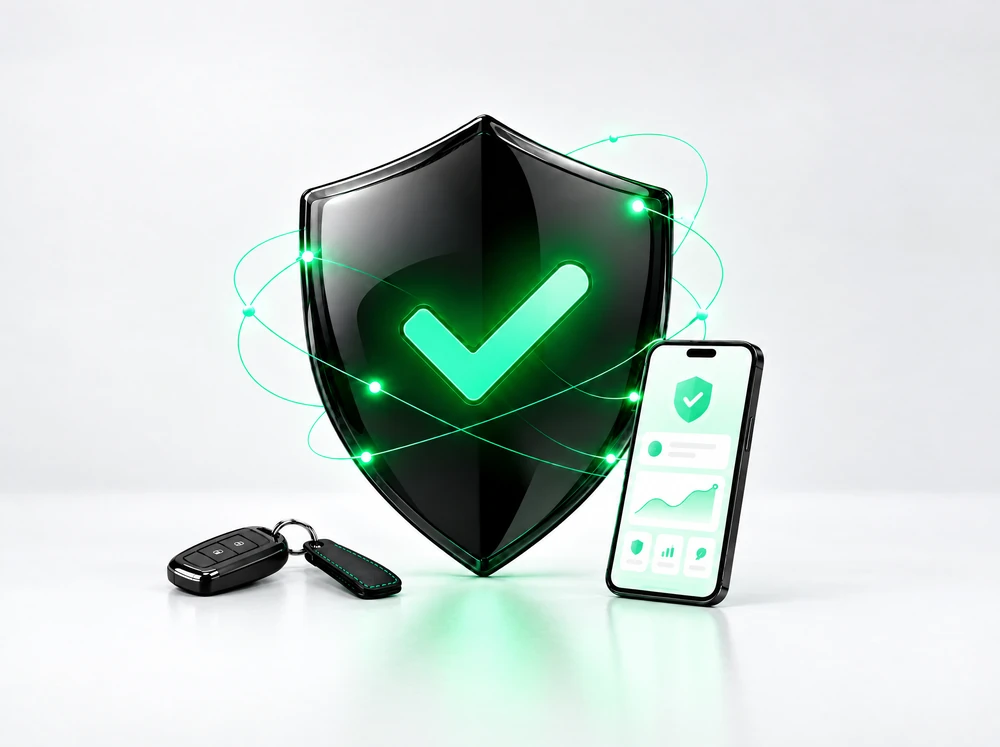
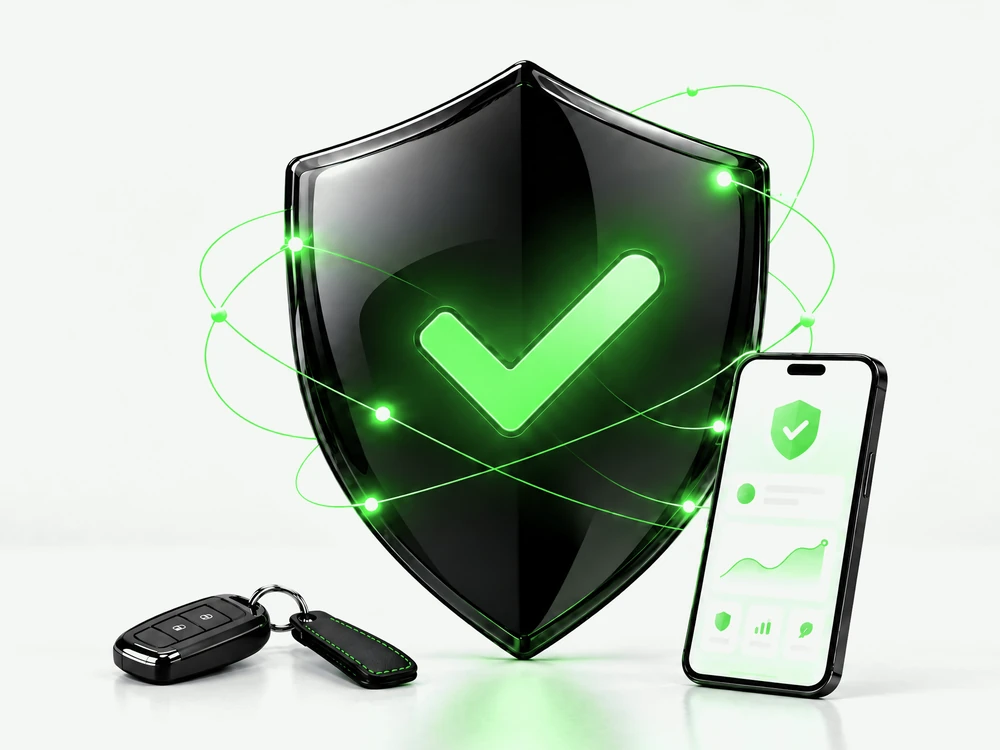
Insurance hero: new shield image; smaller headline so the copy and image stand the same height
Claude-Session: https://claude.ai/code/session_0171CsNeCya1LfcDMSAgnZbJ

diff --git a/src/components/sections/Sections.module.css b/src/components/sections/Sections.module.css
@@ -1545,3 +1545,51 @@ ul.bullets {
   transform: scaleX(1);
   transform-origin: left center;
 }
+
+/* ---------- Balanced hero (Insurance, Oct 2026) ----------
+   A wider image column, and a headline sized so the copy stands as tall as the image beside it. */
+.heroBalanced .heroInner {
+  grid-template-columns: minmax(0, 0.85fr) minmax(0, 1.15fr);
+  gap: 48px;
+}
+
+.heroBalanced .heroCopy {
+  gap: 18px;
+}
+
+/* The image stands exactly as tall as the copy beside it; its plain backdrop absorbs the small crop. */
+.heroBalanced .heroInner {
+  align-items: stretch;
+}
+
+.heroBalanced .heroMediaSlot {
+  position: relative;
+}
+
+.heroBalanced .heroMediaSlot > * {
+  position: absolute;
+  inset: 0;
+  height: 100%;
+  aspect-ratio: auto !important;
+}
+
+.heroBalanced :global(.h-page) {
+  font-size: clamp(34px, 3.05vw, 44px);
+  line-height: 1.12;
+}
+
+.heroBalanced .heroLead {
+  font-size: 18px;
+}
+
+@media (max-width: 900px) {
+  .heroBalanced .heroInner {
+    grid-template-columns: 1fr;
+  }
+
+  .heroBalanced .heroMediaSlot > * {
+    position: relative;
+    height: auto;
+    aspect-ratio: 4 / 3 !important;
+  }
+}

diff --git a/src/components/sections/DetailHero.tsx b/src/components/sections/DetailHero.tsx
@@ -26,7 +26,13 @@ export default function DetailHero({ page }: { page: DetailPage }) {
   return (
     <section
       ref={ref}
-      className={cx(s.hero, photo && s.heroPhoto, photo && 'on-photo', hero.compact && s.heroCompact)}
+      className={cx(
+        s.hero,
+        photo && s.heroPhoto,
+        photo && 'on-photo',
+        hero.compact && s.heroCompact,
+        hero.balanced && s.heroBalanced,
+      )}
       style={photo ? { backgroundImage: `url(${hero.media!.src})` } : undefined}
       data-band={light ? 'light' : 'dark'}
     >
@@ -80,7 +86,7 @@ export default function DetailHero({ page }: { page: DetailPage }) {
           )}
         </div>
         {!photo && (
-          <div data-enter-media>
+          <div data-enter-media className={s.heroMediaSlot}>
             <Media
               image={hero.media}
               video={hero.video}

diff --git a/src/data/products/insurance.ts b/src/data/products/insurance.ts
@@ -15,11 +15,12 @@ export const page: DetailPage = {
     intro:
       'We have been working with insurance companies for over 10 years to deliver telematics solutions and services that solve business problems, automate processes, reduce customer churn, reduce risk, and add revenue through services.',
     tone: 'dark',
+    balanced: true,
     media: {
       src: '/images/insurance-shield.webp',
       alt: 'Glowing green check on a black shield ringed by data lines, beside a car key and a phone showing a protected policy dashboard',
       width: 1000,
-      height: 747,
+      height: 750,
     },
   },
   sections: [

diff --git a/src/data/types.ts b/src/data/types.ts
@@ -199,6 +199,8 @@ export type DetailPage = {
     globe?: GlobeSlide
     /** A smaller headline and lead, for a long title that should sit level with the hero image. */
     compact?: boolean
+    /** A wider image column and a headline sized so the copy stands as tall as the image beside it. */
+    balanced?: boolean
     /** A short catch phrase typed out above the page label; `highlight` is set in green. */
     announce?: { text: string; highlight?: string }
     /** Leaves the hero off: the page opens on its title alone, and the image still serves menus and cards. */
